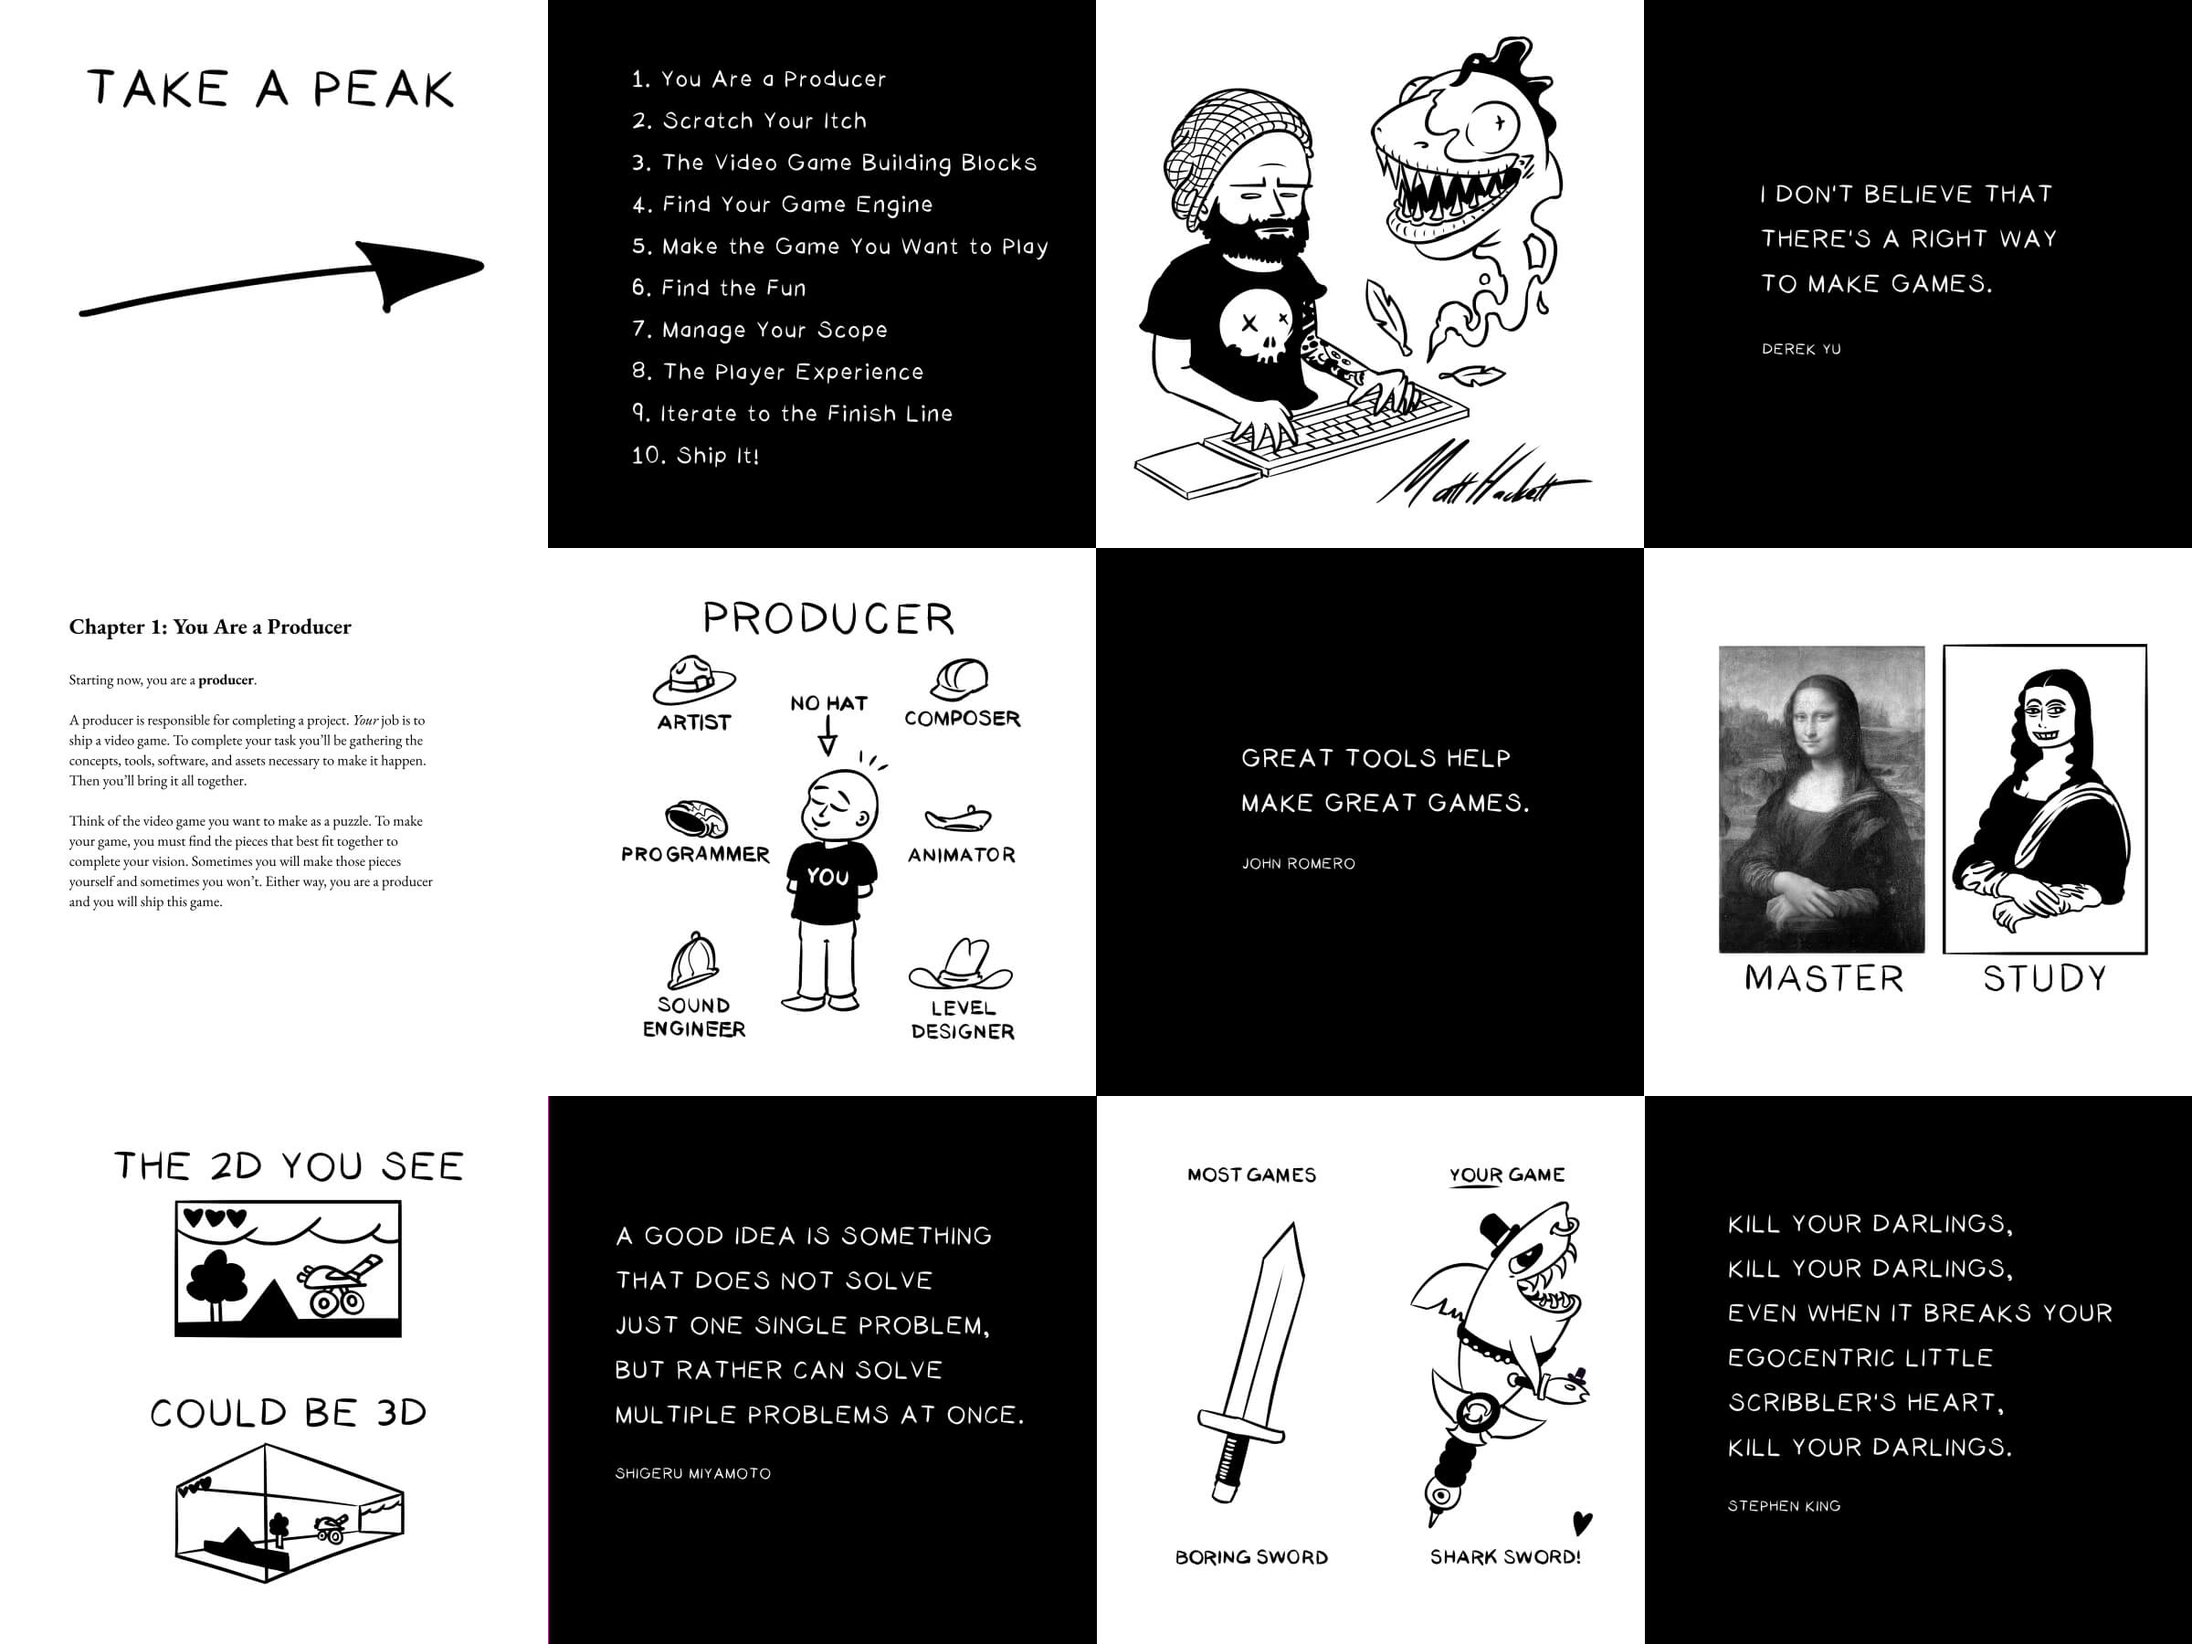
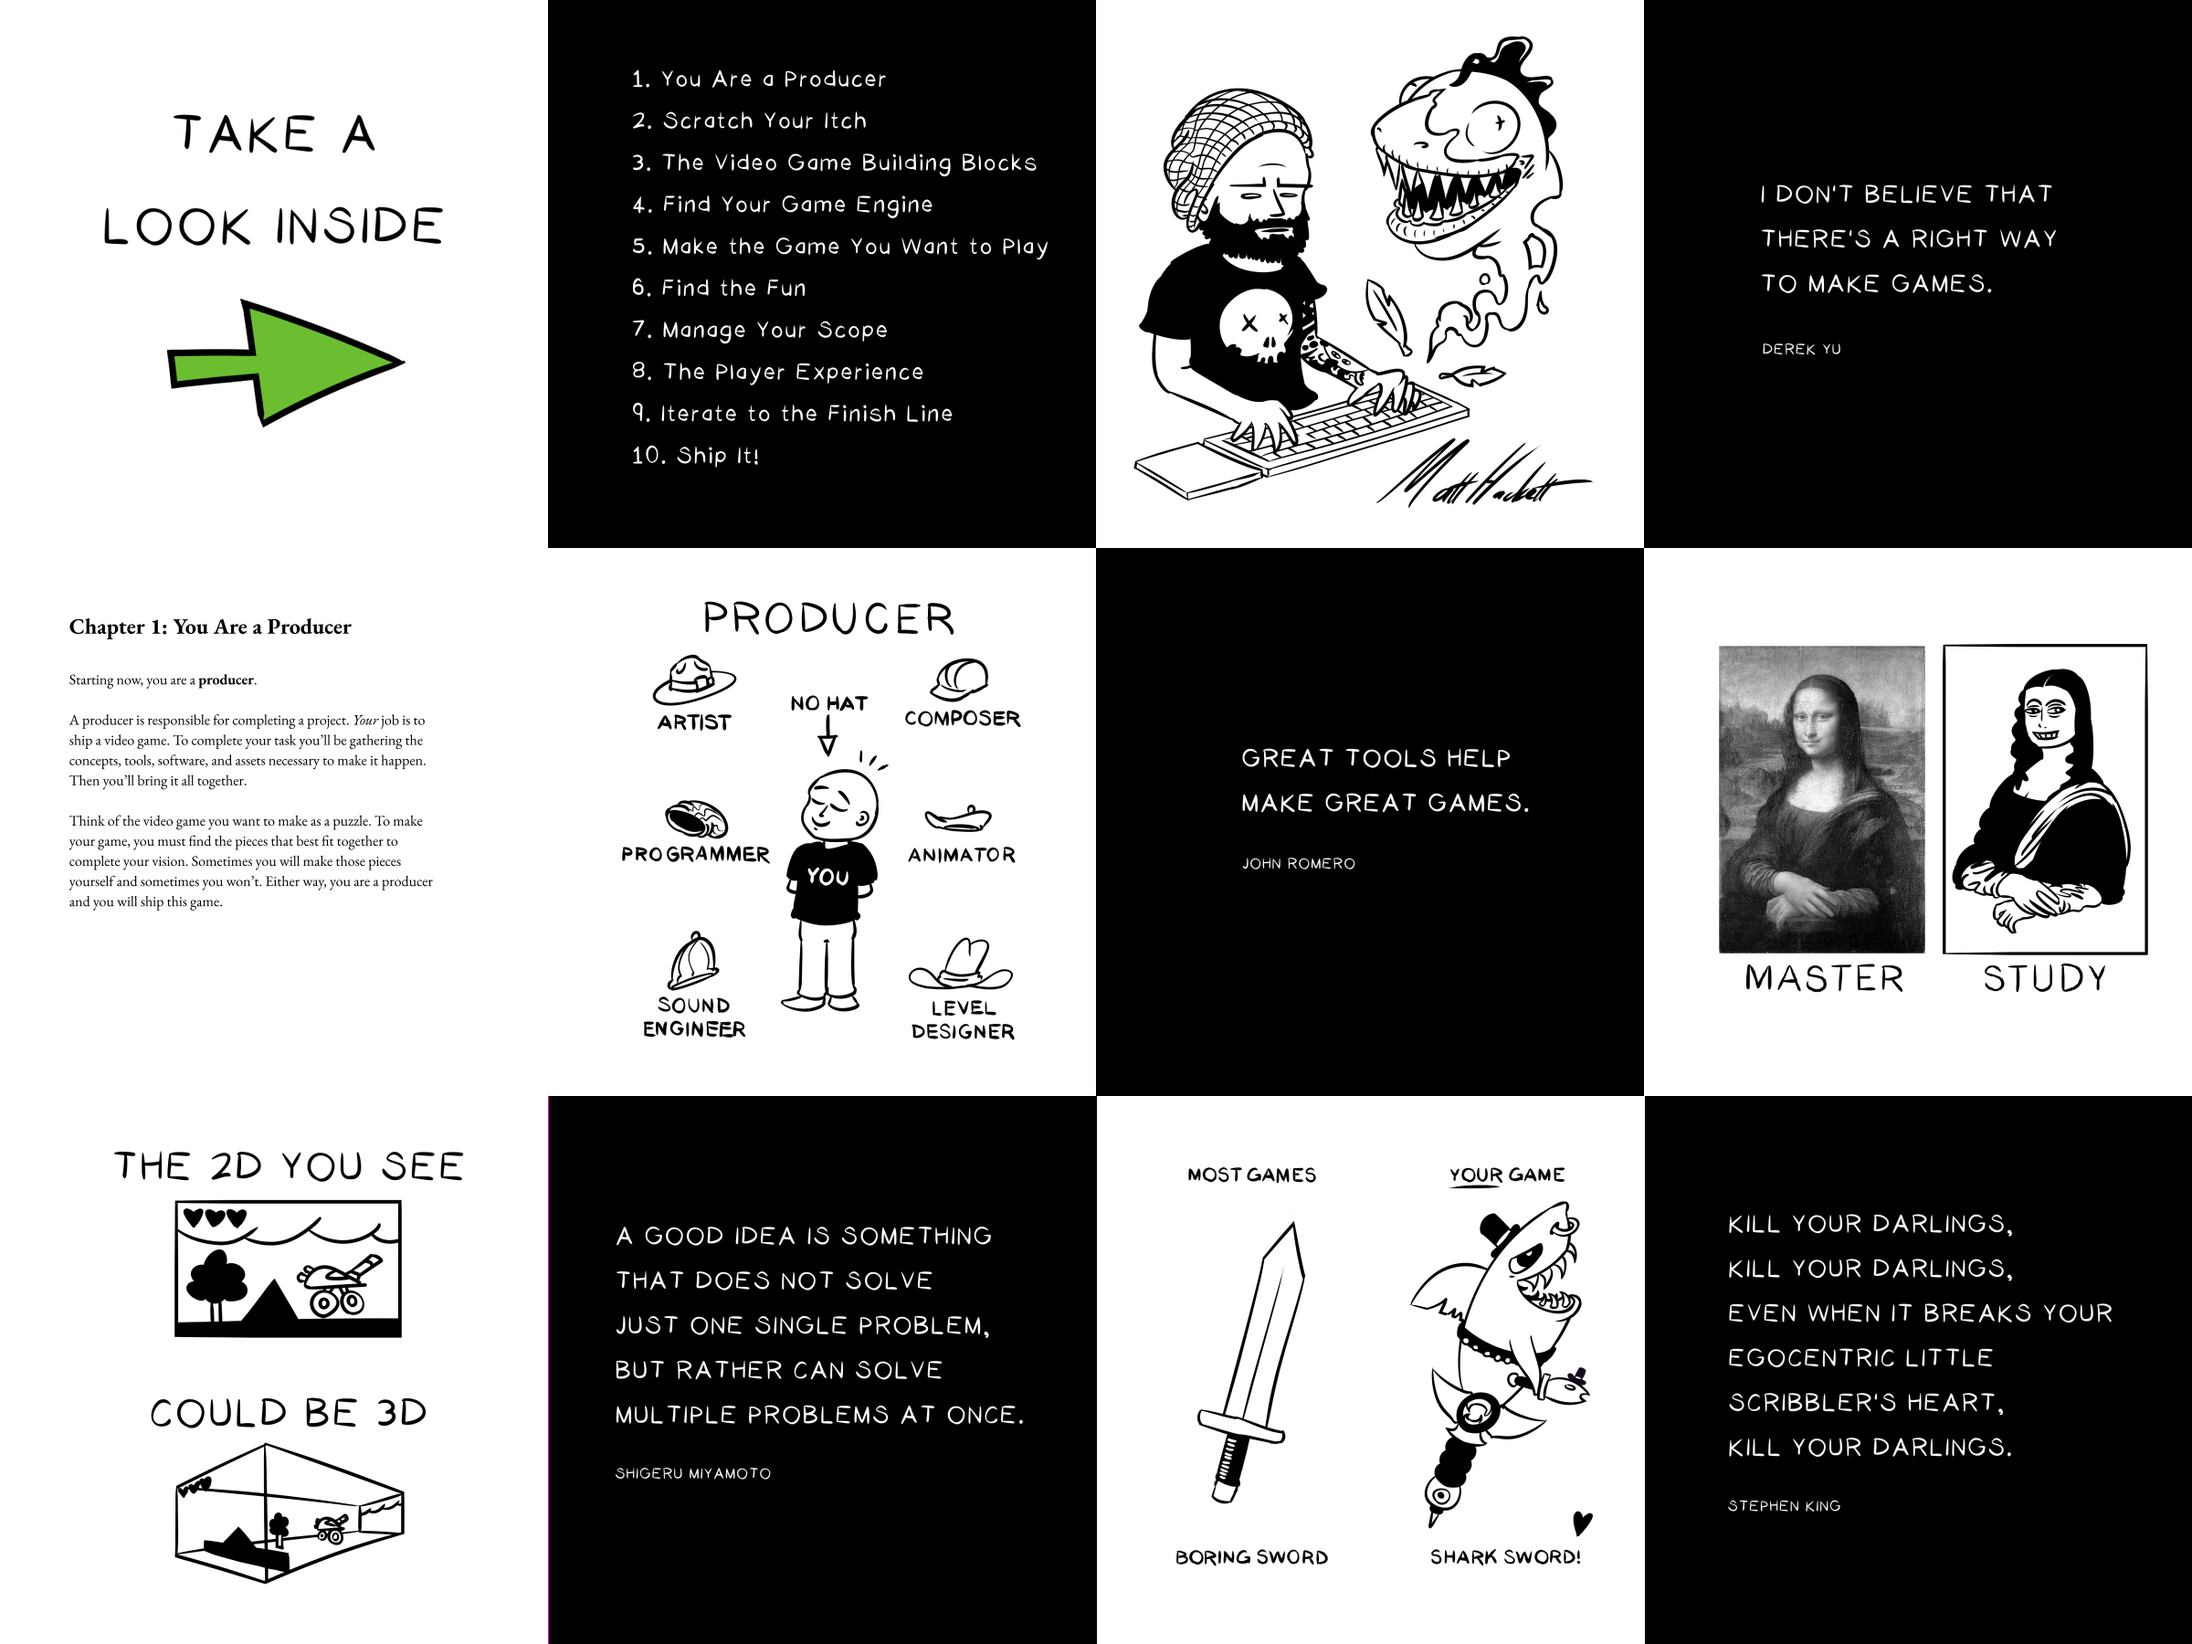
v6.2.0: fix typos, improve CTA image

diff --git a/layouts/footer.html b/layouts/footer.html
@@ -26,7 +26,7 @@
 				</ul>
 
 				<p>
-					v6.1.0 &copy; Matt Hackett 2022
+					v6.2.0 &copy; Matt Hackett 2022
 				</p>
 			</div>
 		</div><!-- /footer -->

diff --git a/src/post/how-to-make-a-video-game-all-by-yourself.md b/src/post/how-to-make-a-video-game-all-by-yourself.md
@@ -28,7 +28,7 @@ able to go outside for global health reasons ... well, that's awful, but also a 
 
 And since you're here reading an art and game development blog, that's you too! I wrote this book for _you_. Seriously.
 
-How about a <a href="/media/images/post/how-to-make-a-video-game-all-by-yourself/Banner_Grid_4x3.jpg">peak</a> inside?
+How about a <a href="/media/images/post/how-to-make-a-video-game-all-by-yourself/Banner_Grid_4x3.jpg">peek</a> inside?
 
 <div>
   <a href="/media/images/post/how-to-make-a-video-game-all-by-yourself/Banner_Grid_4x3.jpg">
